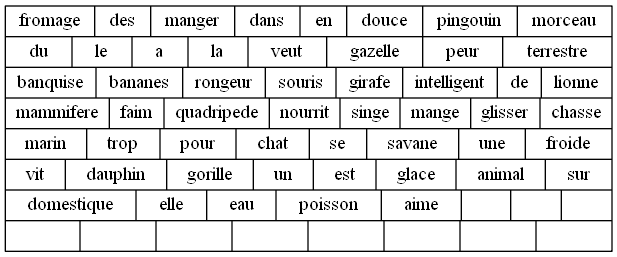
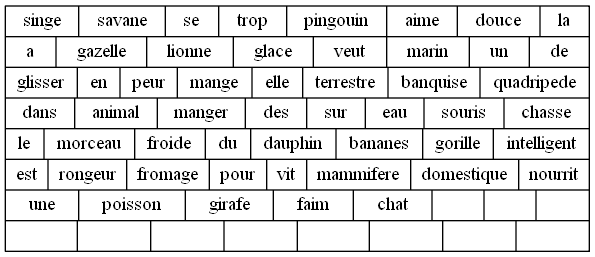
Crossover with cross info rate implementation

diff --git a/GeneticPGCSOptimizer.py b/GeneticPGCSOptimizer.py
@@ -376,43 +376,46 @@ class GeneticPGCSOptimizer():
       for picto_y in voc_y.values():
         list_voc_y.append(picto_y)
 
-      #Get the random position of the information provided by the second individual (y)
-      slot_y = random.randint(0,len(list_voc_y) - 1)
+      #For every pictograms in the second individual (y)
+      for slot_y in range(len(list_voc_y)):
 
-      #Save the word and the new position of the target pictogram
-      target_word = list_voc_y[slot_y][0]
-      new_row = list_voc_y[slot_y][1]
-      new_col = list_voc_y[slot_y][2]
+        #Compute an independent probability to know if we have to give the information of the pictogram from y to x.
+        if(random.random() < self.get_cross_info_rate()):
 
-      #Find the position of this information in the first individual (x)
-      i = 0
-      for picto in list_voc_x:
-        #Position of the target in x is found
-        if(picto[0] == target_word):
+          #Save the word and the new position of the target pictogram
+          target_word = list_voc_y[slot_y][0]
+          new_row = list_voc_y[slot_y][1]
+          new_col = list_voc_y[slot_y][2]
 
-          #Save position of the target in x
-          target_row = picto[1]
-          target_col = picto[2]
-          target_save = picto
-          #Save the slot
-          slot_x = i
+          #Find the position of this information in the first individual (x)
+          i = 0
+          for picto in list_voc_x:
+            #Position of the target in x is found
+            if(picto[0] == target_word):
 
-        #Position of the pictogram to swap
-        if(picto[1] == new_row and picto[2] == new_col):
+              #Save position of the target in x
+              target_row = picto[1]
+              target_col = picto[2]
+              target_save = picto
+              #Save the slot
+              slot_x = i
 
-          picto_save = picto
+            #Position of the pictogram to swap
+            if(picto[1] == new_row and picto[2] == new_col):
 
-        #Counter over the iterations
-        i = i + 1
+              picto_save = picto
 
-      #Swap of the two pictograms positions          
-      picto_save[1] = target_row
-      picto_save[2] = target_col
-      target_save[1] = new_row
-      target_save[2] = new_col
+            #Counter over the iterations
+            i = i + 1
 
-      #Swap the pictogram in the grid
-      list_voc_x[slot_x], list_voc_x[slot_y] = list_voc_x[slot_y], list_voc_x[slot_x]
+          #Swap of the two pictograms positions          
+          picto_save[1] = target_row
+          picto_save[2] = target_col
+          target_save[1] = new_row
+          target_save[2] = new_col
+
+          #Swap the pictogram in the grid
+          list_voc_x[slot_x], list_voc_x[slot_y] = list_voc_x[slot_y], list_voc_x[slot_x]
 
       #Store the identifiers of each pictogram
       for picto in list_voc_x:
